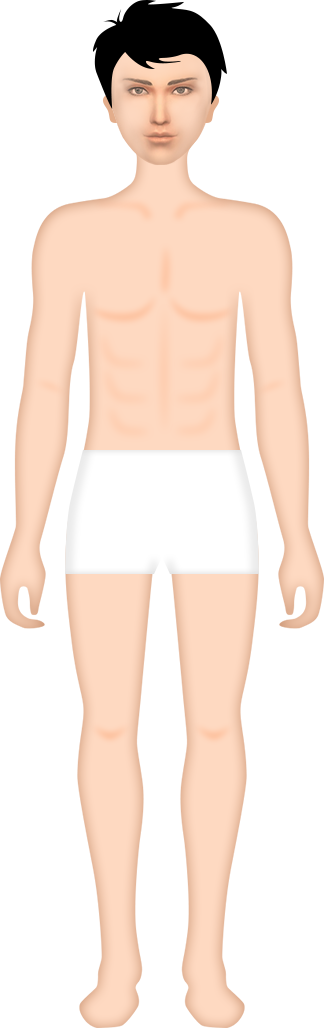
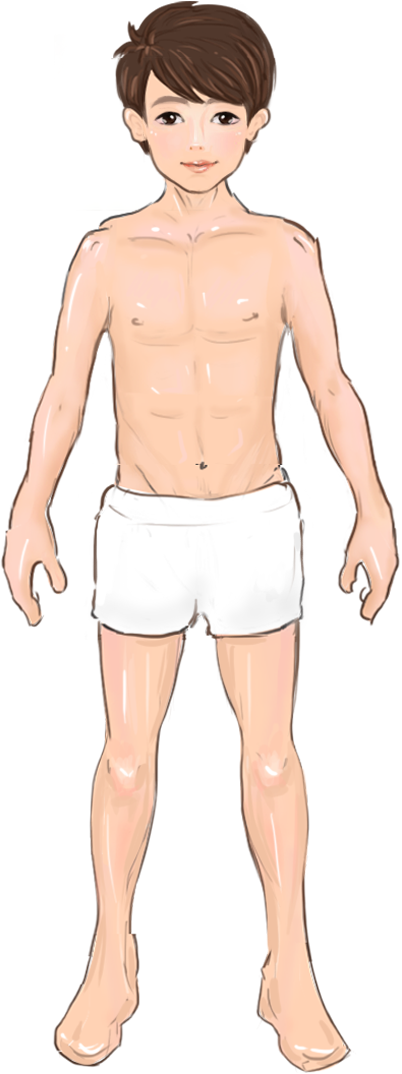
e3

diff --git a/css/index.css b/css/index.css
@@ -86,51 +86,51 @@ section {
     position: relative;
 }
 .body-head {
-    width: 1.3rem;
-    height: 1.45rem;
+    width: 1.1rem;
+    height: 1.3rem;
     border: 1px solid #000;
     position: absolute;
-    left: 0.54rem;
+    left: 0.64rem;
     top: 0;
 }
 .body-chest {
-    width: 1.3rem;
-    height: 1rem;
+    width: 1.1rem;
+    height: 0.8rem;
     border: 1px solid #000;
     position: absolute;
-    top: 1.45rem;
-    left: 0.54rem;
+    top: 1.3rem;
+    left: 0.64rem;
 }
 .body-belly {
-    width: 1.3rem;
-    height: 1rem;
+    width: 1.1rem;
+    height: 0.9rem;
     border: 1px solid #000;
     position: absolute;
-    top: 2.45rem;
-    left: 0.56rem;
+    top: 2.1rem;
+    left: 0.66rem;
 }
 .body-perineum {
     width: 1.3rem;
     height: 0.9rem;
     border: 1px solid #000;
     position: absolute;
-    top: 3.45rem;
+    top: 3rem;
     left: 0.56rem;
 }
 .body-arms {
     width: 2.43rem;
-    height: 3.3rem;
+    height: 2.6rem;
     border: 1px solid green;
     position: absolute;
     left: 0;
-    top: 1.45rem;
+    top: 1.3rem;
 }
 .body-legs {
-    width: 1.3rem;
-    height: 3.5rem;
+    width: 1.8rem;
+    height: 2.8rem;
     position: absolute;
-    top: 4.35rem;
-    left: 0.56rem;
+    top: 3.9rem;
+    left: 0.38rem;
     border: 1px solid green;
 }
 .body img {

diff --git a/js/index.js b/js/index.js
@@ -10,13 +10,13 @@ $(function () {
   // 人体图切换
   $(".man").click(function () {
     console.log("man");
-    $(".body img").attr("src","images/man@2x.png");
+    $(".body img").attr("src","images/peopleMan@2x.png");
     $(".man").addClass("choose-active");
     $(".woman").removeClass("choose-active");
   });
   $(".woman").click(function () {
     console.log("woman");
-    $(".body img").attr("src","images/woman@2x.png");
+    $(".body img").attr("src","images/peopleWoman@2x.png");
     $(".man").removeClass("choose-active");
     $(".woman").addClass("choose-active");
   });
@@ -86,12 +86,7 @@ $(function () {
               $(".symptom-choose span").html(count);
           });
           }
-
   });
-
-
-
-
   $(".next-btn").click(function () {
     if (count == 0) {
       alert("请选择症状")
@@ -185,21 +180,9 @@ $(".search-wapper").focus(function () {
   }
 })
 
-
-
-$(".symptom-top li").click(function () {
-  $(".symptom-top li").removeClass("symptom-top-active");
-  $(this).addClass("symptom-top-active");
-})
-
-
-
-
-
-
-
-
-
-
+    $(".symptom-top li").click(function () {
+      $(".symptom-top li").removeClass("symptom-top-active");
+      $(this).addClass("symptom-top-active");
+    })
 
 })

diff --git a/index.html b/index.html
@@ -41,7 +41,7 @@
                     </div>
                     <div class="body-wapper">
                         <div class="body">
-                          <img src="images/man@3x.png" alt="" />
+                          <img src="images/peopleMan@2x.png" alt="" />
                           <div id="head" class="body-head body-img"></div>
                           <div id="arms" class="body-arms body-img"></div>
                           <div id="chest" class="body-chest body-img"></div>
@@ -137,7 +137,7 @@
                         <span>淋巴结肿</span>
                         <span>畏寒</span>
                         <span>体重减轻</span>
-                        <span>消瘦</span>                        
+                        <span>消瘦</span>
                     </div>
                   </section>
                 </div>

diff --git a/css/result.css b/css/result.css
@@ -148,7 +148,8 @@ footer span {
     /*border: 1px solid red;*/
     background: #f1f1f1;
     /*position: fixed;*/
-    padding: 0.2rem 1rem;
+    margin-top: 0.2rem;
+    padding: 0.3rem 1rem;
     /*left: 1.2rem;*/
     /*top: 0.9rem;*/
     /*margin-left: 1.2rem;*/
